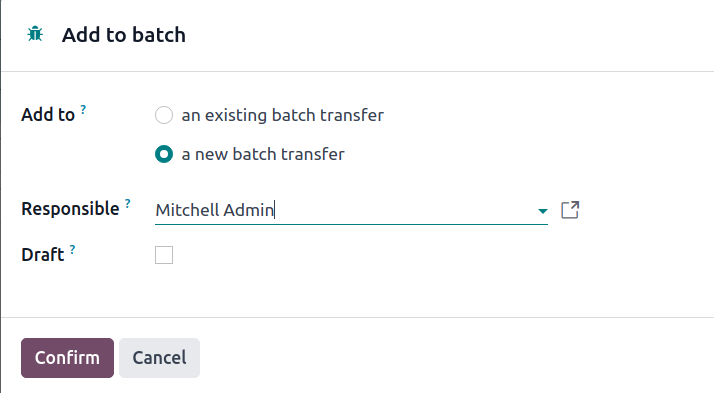
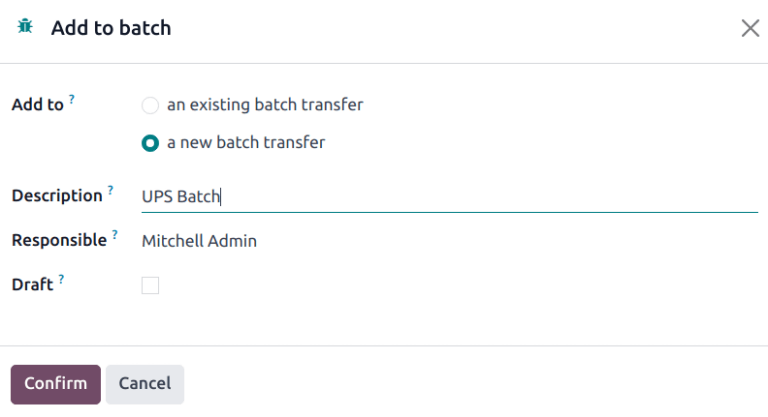
[IMP] Inventory: cluster picking
X-original-commit: c4e0f35aa95ead1769412fb62c146a4942cb1a8f

diff --git a/content/applications/inventory_and_mrp/inventory/shipping_receiving/picking_methods/cluster.rst b/content/applications/inventory_and_mrp/inventory/shipping_receiving/picking_methods/cluster.rst
@@ -7,16 +7,17 @@ Cluster picking
 .. |SO| replace:: :abbr:`SO (Sales Order)`
 .. |SOS| replace:: :abbr:`SOs (Sales Orders)`
 
-Cluster picking is an advanced order fulfillment approach derived from :ref:`batch picking
-<inventory/misc/batch_picking>`.
+Cluster picking is an advanced picking method that combines the efficiency of :ref:`batch picking
+<inventory/misc/batch_picking>` with immediate sorting during the picking process. It is best suited
+for warehouses with high order volumes where organization and speed are critical.
 
-In this strategy, pickers load a cart with multiple packages, each designated for a specific *sales
-order* (SO). Then, the picker travels to each storage location, and places the products directly in
-the package of the associated order.
+Unlike batch picking, which requires a separate sorting step after picking, cluster picking sorts
+items directly into designated bins or containers for each *sales order* (SO). This eliminates the
+need for post-picking consolidation, making it ideal for operations prioritizing speed and accuracy.
 
-This method is most efficient for medium-sized companies, with high order volumes, and relatively
-few unique products, since the method eliminates the need for sorting products into packages for
-customers after picking.
+Cluster picking is particularly effective in environments where immediate organization is crucial,
+and orders contain a mix of items that need precise sorting during, rather than after, the picking
+process.
 
 However, cluster picking does have some disadvantages. For instance, urgent orders cannot be
 prioritized, and optimized batches must be manually created beforehand. As a result, the picking
@@ -41,7 +42,6 @@ process can lead to bottlenecks.
    where the packages are sealed and prepared for shipment.
 
    .. image:: cluster/cluster-example.png
-      :align: center
       :alt: Show example of fulfilling sales orders 2 and 3 at once.
 
 Configuration
@@ -49,10 +49,9 @@ Configuration
 
 To enable cluster picking, begin by navigating to :menuselection:`Inventory app --> Configuration
 --> Settings`. Under the :guilabel:`Operations` heading, activate the :guilabel:`Packages` and
-:guilabel:`Batch Transfers` options.
+:guilabel:`Batch, Wave & Cluster Transfers` options.
 
 .. image:: cluster/configs.png
-   :align: center
    :alt: Activate *Packages* and *Batch Transfers* features in the settings.
 
 Since batch picking is used to optimize the *pick* operation in Odoo, the :guilabel:`Storage
@@ -65,7 +64,6 @@ also be checked on this settings page.
 When finished, click :guilabel:`Save`.
 
 .. image:: cluster/locations-routes-checkbox.png
-   :align: center
    :alt: Enable *Storage Locations* and *Multi-Step Routes* Inventory > Configuration > Settings.
 
 .. _inventory/misc/create-package:
@@ -73,8 +71,9 @@ When finished, click :guilabel:`Save`.
 Packages setup
 --------------
 
-After the :guilabel:`Packages` feature is enabled, navigate to :menuselection:`Inventory app -->
-Products --> Packages`, and click the :guilabel:`New` button to create a new package.
+To configure the containers to be used during the picking process, navigate to
+:menuselection:`Inventory app --> Products --> Packages`. Click the :guilabel:`New` button to create
+a new package.
 
 On the new package form, the :guilabel:`Package Reference` is pre-filled with the next available
 `PACK` number in the system. :guilabel:`Pack Date` is automatically set to the creation date of the
@@ -88,37 +87,17 @@ Set the :guilabel:`Package Use` field to :guilabel:`Reusable Box`.
 .. example::
    A package intended for cluster picking is named `CLUSTER-PACK-3` for easy identification. For
    this workflow, the products are directly packed using their intended shipping boxes, so
-   :guilabel:`Package Use` is set to :guilabel:`Disposable Box`.
+   :guilabel:`Package Use` is set to :guilabel:`Reusable Box`.
 
    .. image:: cluster/cluster-package.png
-      :align: center
       :alt: Create new package form.
 
 Create cluster batch
 ====================
 
-To see how cluster picking works in Odoo, navigate to the :menuselection:`Sales` app, and create
-|SOS| that will be fulfilled together in the same batch. After confirming an |SO|, the
-:guilabel:`Delivery` smart button becomes visible. Displayed inside the icon is a number
-representing the amount of steps in the outgoing shipment process.
-
-.. example::
-   Begin by creating three |SOS| for the apples, oranges, and bananas, as shown in the :ref:`example
-   above <inventory/misc/cluster_picking/example>`.
-
-   After confirming the |SO|, the :guilabel:`Delivery` smart button displays the number `2`,
-   indicating there are two operations to complete: `Pick` and `Delivery`.
-
-   .. image:: cluster/create-sales-order.png
-      :align: center
-      :alt: Example sales order for an apple, orange, and banana.
-
-With the |SOS| created, orders now must be grouped into batches. To do so, navigate to the
-*Inventory* dashboard and select the operation type card, :guilabel:`Delivery Orders` or
-:guilabel:`Pick` (whichever is the first operation in the delivery flow).
-
-Doing so displays a filtered list of outgoing operations with the :guilabel:`Ready` status,
-indicating that all the products in the |SO| are in stock.
+To create a cluster, navigate to :menuselection:`Inventory app` and select the operation type card,
+:guilabel:`Delivery Orders` or :guilabel:`Pick` (whichever is the first operation in the delivery
+flow).
 
 .. note::
    Cluster pick batches can be created for outgoing shipments in one, two, or three steps.
@@ -129,8 +108,8 @@ indicating that all the products in the |SO| are in stock.
    - :doc:`Delivery in three steps <../daily_operations/delivery_three_steps>`
 
 Click the checkbox to the left of the corresponding outgoing operation to add them to the batch.
-With the desired pickings selected, click the :guilabel:`⚙ Actions (gear)` button, and select the
-:guilabel:`Add to batch` option from the resulting drop-down menu.
+With the desired pickings selected, click the :icon:`fa-cog` :guilabel:`Actions` button, and select
+the :guilabel:`Add to batch` option from the resulting drop-down menu.
 
 .. example::
    To create a cluster batch, as shown in the :ref:`example above
@@ -142,7 +121,6 @@ With the desired pickings selected, click the :guilabel:`⚙ Actions (gear)` 
    - `WH/PICK/00009`: linked to |SO| 90 for one apple, orange, and banana.
 
    .. image:: cluster/select-picks.png
-      :align: center
       :alt: Use *Add to batch* button, from the *Action* button's list.
 
 Doing so opens an :guilabel:`Add to batch` pop-up window, wherein the employee
@@ -151,13 +129,18 @@ Doing so opens an :guilabel:`Add to batch` pop-up window, wherein the employee
 Choose from the two options in the :guilabel:`Add to` field to either: add to :guilabel:`an existing
 batch transfer`, or create :guilabel:`a new batch transfer`.
 
+Then, add a :guilabel:`Description` for this batch.
+
+.. tip::
+   The :guilabel:`Description` field can be used to add additional information to help workers
+   identify the source of the batch, where to place the batch, what shipping containers to use, etc.
+
 To create draft batch pickings to be confirmed at a later date, select the :guilabel:`Draft`
 checkbox.
 
 Conclude the process by clicking :guilabel:`Confirm`.
 
 .. image:: cluster/add-to-batch-window.png
-   :align: center
    :alt: Show *Add to batch* window to create a batch transfer.
 
 Process batches
@@ -168,73 +151,17 @@ Click on a batch to select it.
 
 In the :guilabel:`Detailed Operations` tab, products that are to be picked are grouped by location.
 
-Under the :guilabel:`Source Package` or :guilabel:`Destination Package` field, enter the package
-used for the picking.
-
-.. note::
-   Use the :guilabel:`Source Package` field when the picking package is configured as *reusable* on
-   the :ref:`package form <inventory/misc/create-package>`. This means the products are temporarily
-   placed in a container during picking, before getting transferred to their final shipping box.
-
-   Alternatively, use the :guilabel:`Destination Package` field when the product is directly placed
-   in its *disposable* shipping box during picking.
+Set the :guilabel:`Destination Package` to the package dedicated to that particular order.
 
 .. example::
    Process the cluster batch for the three orders of apples, oranges, and bananas :ref:`example
    <inventory/misc/cluster_picking/example>` by assigning each picking to a dedicated package.
 
    At the storage location for apples, `WH/Stock/Shelf A`, assign the apples in all three pickings
-   to one of the three disposable packages, `CLUSTER-PACK-1`, `CLUSTER-PACK-2`, or `CLUSTER-PACK-3`.
+   to one of the three reusable packages, `CLUSTER-PACK-1`, `CLUSTER-PACK-2`, or `CLUSTER-PACK-3`.
 
    Record this in Odoo using the :guilabel:`Destination Package` field in the :guilabel:`Detailed
    Operations` tab.
 
    .. image:: cluster/cluster-batch-example.png
-      :align: center
       :alt: Example of processing cluster pickings in *Inventory*.
-
-In Barcode
-----------
-
-To process cluster pickings directly from the *Barcode* app, select the :guilabel:`Batch Transfers`
-button from the *Barcode* dashboard. Then, select the desired batch.
-
-On the batch transfer screen, the products in the picking are grouped by location, and each line is
-color-coded to associate products in the same picking together.
-
-Then, follow the prompt to :guilabel:`Scan the source location` barcode for the storage location of
-the first product. Then, scan the barcode for the product and package to process the transfer.
-
-Repeat this for all products, and click the :guilabel:`Validate` button.
-
-.. note::
-   To find the package barcode, navigate to :menuselection:`Inventory app --> Products -->
-   Packages`, select the desired package, click the :guilabel:`⚙ (gear)` icon at the top of the
-   package form, and select the :guilabel:`Print` option.
-
-   Next, select one of the three print options to generate the package barcode from the
-   :guilabel:`Package Reference` field.
-
-   .. image:: cluster/find-package-barcode.png
-      :align: center
-      :alt: Display where the package barcode can be generated.
-
-.. example::
-   Begin processing the cluster picking by going to the first storage location, `Shelf A`, and
-   scanning the :ref:`location barcode <barcode/setup/location>`. Doing so highlights all the
-   pickings that need products from this particular location.
-
-   Scan the barcode for the apple, which highlights the picking (labeled in red) for the product
-   `Apple`, for the picking, `WH/PICK/00007`.
-
-   Then, scan the `CLUSTER-PACK-1` package barcode, and place the product in the designated package.
-
-   .. image:: cluster/batch-barcode.png
-      :align: center
-      :alt: Example of cluster batch from the *Barcode* app.
-
-.. tip::
-   After creating a batch transfer and assigning a package to a picking, Odoo suggests the specified
-   package by displaying the name *in italics* under the product name, ensuring pickers place
-   products into the correct boxes.
-
